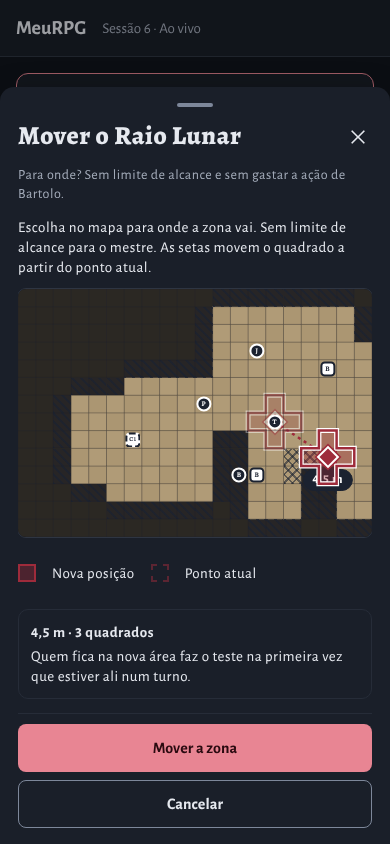
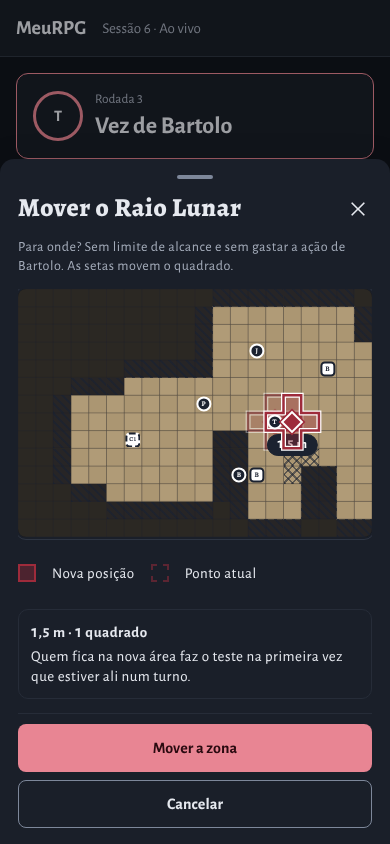
docs(screenshots): spell-zones move sheet, save prompt re-captures after the fixes
Claude-Session: https://claude.ai/code/session_015LVaqVZGVn2UKpzMMBr8Vb

diff --git a/spell-zones/README.md b/spell-zones/README.md
@@ -1,6 +1,6 @@
 # Spell zones (B6): harness captures
 
-**These are HARNESS CAPTURES, not the live stack** (no Docker daemon or CockroachDB was available). The real components were rendered in Chromium with fake data: `app-combat-map-card` (with `app-zone-layer`, the zone legend), `app-zones-panel`, `ZoneMoveSheet` + `app-zone-move-map` and `EffectSaveSheet` (both opened through the real `openSheet`: bottom sheet at 390, dialog from 768), `app-reaction-queue`, `app-log-list` (lines built by `logGroups`), `app-pending-damages`, with the view-models of `core/combat/zones.ts` and the fixtures `spellZone()` / `combatant()` / `encounter()` of `core/combat/combat-testing.ts`. A fake `CombatClient` answers nothing; nothing ran against the server, the stream or the database. Rendered from commit `33feab869` (branch `feat/spell-zones-web`) by a throwaway harness in a detached worktree, never committed to the feature branch. Fonts are the app's self-hosted ones. The surrounding page (top bar, "Rodada 3 / Vez de ..." card, the cave picture, its walls and terrain) is a stand-in drawn by the harness, so the background and the map art differ from the boards.
+**These are HARNESS CAPTURES, not the live stack** (no Docker daemon or CockroachDB was available). The real components were rendered in Chromium with fake data: `app-combat-map-card` (with `app-zone-layer`, the zone legend), `app-zones-panel`, `ZoneMoveSheet` + `app-zone-move-map` and `EffectSaveSheet` (both opened through the real `openSheet`: bottom sheet at 390, dialog from 768), `app-reaction-queue`, `app-log-list` (lines built by `logGroups`), `app-pending-damages`, with the view-models of `core/combat/zones.ts` and the fixtures `spellZone()` / `combatant()` / `encounter()` of `core/combat/combat-testing.ts`. A fake `CombatClient` answers nothing; nothing ran against the server, the stream or the database. Rendered from commit `33feab869` (branch `feat/spell-zones-web`) by a throwaway harness in a detached worktree, never committed to the feature branch. The `zonas-mover-*`, `zonas-mover-longe-*`, `zonas-aviso-teste-*`, `zonas-aviso-teia-*` and `zonas-aviso-teste-cd-conjurador-*` files at 390 were re-rendered after the fixes below, from commit `b7c3a52d1` (same harness; `medidas-correcoes.json` holds the measurements); the move sheet also has `-390x667-` files (390 x 667 viewport). Everything else is still from `33feab869`. Fonts are the app's self-hosted ones. The surrounding page (top bar, "Rodada 3 / Vez de ..." card, the cave picture, its walls and terrain) is a stand-in drawn by the harness, so the background and the map art differ from the boards.
 
 Matrix: widths 390, 768 and 1280, light and dark (`prefers-color-scheme`), device scale 1 (390 x 844, 768 x 1024, 1280 x 900). File name: `zonas-<state>-<role>-<width>-<theme>.png` (roles `mestre`, `jogador`, `conjurador` = the caster's own player; themes `claro`, `escuro`). Pages are full-page shots; sheets are viewport shots. `medidas-e-auditoria.json` holds the measurements and the layout audit of every file.
 
@@ -26,12 +26,12 @@ Run on every one of the 66 screens (the six `-cartao` crops are element shots of
 
 ## Defects against the boards (feature code was not touched)
 
-1. **Medium, move sheet on a short phone (390 x 667) and with a notice (390 x 844 with the range refusal):** "Cancelar" ends below the screen and the bottom-sheet container scrolls. Measured: 390 x 667 `Mover a zona` 607-655, `Cancelar` 663-711 (viewport 667), container scrollHeight 643 over 583; 390 x 844 out of range: `Cancelar` 820-868 (viewport 844), scrollHeight 800 over 760. Cause: `tall: true` (`pages/live-session/combat/combat-sheets.ts:239`) uses `.mr-sheet-tall` whose container is `100dvh - 84px` (`styles.scss:266`) while the phone frame is `100dvh - 40px` (`shared/sheet/sheet-frame/sheet-frame.scss:10`): 44 px taller than its container. Fix: give the sheet its own `panelClass` like `mr-sheet-dice` (`styles.scss:298-304`): container `100dvh - 84px`, `.frame.frame--phone` `100dvh - 100px`, so only the body scrolls and the footer stays. (The 390 x 844 happy path without a notice fits: `Cancelar` 780-828.)
+1. **FIXED (b7c3a52d1), move sheet on a short phone / with a notice:** the sheet has its own `panelClass` `mr-sheet-zone` (`styles.scss`, container `100dvh - 40px`, frame `100dvh - 56px`, like `mr-sheet-dice`), so only the body scrolls. Measured after the fix: 390 x 667 `Mover a zona` bottom 595, `Cancelar` bottom 651 (viewport 667), container 627 / 627 (not scrolling); 390 x 844 with the range refusal ("Longe demais ... Faltam 4,5 m.") `Cancelar` bottom 828 (viewport 844), container 767 / 767; happy path 390 x 844 `Cancelar` 828. Light and dark, master and player. (Was: 711 and 868, container scrolling.)
 2. **Medium, panel actions:** each master card shows two always-visible buttons ("Mover", "Encerrar zona", `zones-panel/zones-panel.html:31-43`); the board has one "⋮ Mais ações" button per card that opens "Encerrar zona" (B6-05 15), so the cards are about 50 px taller each and "Encerrar zona" sits one tap from a misclick. Fix: a `mat-menu` trigger 44 x 44 with the two actions, or keep the buttons and accept the deviation (decide with the owner).
 3. **Low, end confirm copy:** the built confirm says "Encerrar a zona?" with "Não" / "Sim, encerrar" (`zones-panel.html:47,57,59`); the board says "Encerrar o Raio Lunar?" with "Voltar" / "Encerrar o Raio Lunar". Fix: put the zone's name in the question and the verbs on the buttons ("Voltar" is also the safe, focused one).
 4. **Low, save sheet structure and copy (B6-03):** no amber "Magia que ficou no mapa" kicker with a warning icon (it is a muted subtitle, `core/effects/zone-save.ts:62`); the title is "Raio Lunar de Bartolo" where the board says who and when ("Tor começou o turno no Raio Lunar"); the consequence ("Se falhar: ...") is merged into the notice instead of its own boxed card with the source line; a third button "Deixar o mestre rolar por mim" and a step bar "Teste / Resultado" the board does not have; the board's footnote "A mesa deixa cada jogador escolher como rolar." is missing. Part is the shared effect sheet (`effect-save-sheet.html:2-25,56`); the zone words are in `zone-save.ts`.
-5. **Low, "CD 14" breaks across lines at 390** ("..., CD / 14.") because `zoneDcText` joins with a normal space (`core/effects/zone-save.ts:38`). Fix: a no-break space ("CD 14"), also in `zoneResultDc` and in `effectSaveTitle` (`reaction-queue-text.ts:62`).
-6. **Low, move sheet:** the sheet's subtitle and the map's own hint say the same thing twice ("Para onde? ..." and "Escolha no mapa para onde a zona vai, ... As setas movem ...", `shared/area-picker/zone-move-map.ts:36,144-147`); the board has one line. The legend swatch "Ponto atual" is a dashed outline, but the current footprint is drawn as the same filled shape at 50% opacity (`zone-move-map.ts:54,95-98,112-115`): draw it with a dashed outline (as B6-04's dashed ring) or change the swatch. "Quem fica na nova área faz o teste..." (`zone-move-sheet.html:24`) also stays under the red refusal.
+5. **FIXED (b7c3a52d1), "CD 14" broke across lines at 390:** `zoneDcText`, `zoneResultDc` and the zone part of the master queue title now use a no-break space. Measured at 390 on the caster's prompt ("Constituição, CD 14."): the text "CD 14" occupies one line box (light and dark).
+6. **Low, move sheet:** (a) FIXED (b7c3a52d1): the hint line under the map is gone; the subtitle is the single line ("Para onde? Até 18 m do ponto atual. Gasta a ação de Bartolo. As setas movem o quadrado."). (b) Still open: the legend swatch "Ponto atual" is a dashed outline, but the current footprint is drawn as the same filled shape at 50% opacity (`zone-move-map.ts`); the render above shows it dimmed. (c) Still open: "Quem fica na nova área faz o teste..." stays under the red refusal.
 7. **Low, labels on the map:** a label sits at the middle of its footprint's top edge with no leader line and no collision handling (`shared/combat-map/zone-layer/zone-layer.ts:57-66`, `.html:25-38`); here "Raio Lunar" overlaps the Teia's edge and "Nuvem de Adagas" the Raio Lunar's, and at 390 the pills (13 px, never scaled) cover tokens and one another. The board draws a short stem from each pill to its zone and offsets them. Fix: a 1 px stem to the zone's edge and a small vertical nudge when two pills overlap.
 8. **Low, log wording vs B6-05 (8-11):** "Raio Lunar acabou no Bartolo: a concentração acabou" (board: "Bartolo perdeu a concentração em Raio Lunar. A zona acabou."), "... mudou de lugar" (board: who moved it and who is on the new area), "Nuvem de Adagas do bilbo acabou: bilbo começou outra magia de concentração" (board: "bilbo começou outra magia de concentração e largou a Nuvem de Adagas. A zona acabou."); no "Jogadores e mesa / O mestre lê também" split (`core/combat/combat-log-effects.ts:70-84`). The master's queue card says "Goblin 2 entrou na zona. ... Se falhar, você sofre dano" (`zone-save.ts:14-20` with no article, and the server's "você" read by the master).
 9. **Low, panel width:** 500 px at 1280 (`combat-view.scss:49`, the shared side column) where the board draws about 420 px; the cards wrap one line less. No change needed unless the board is the reference.
